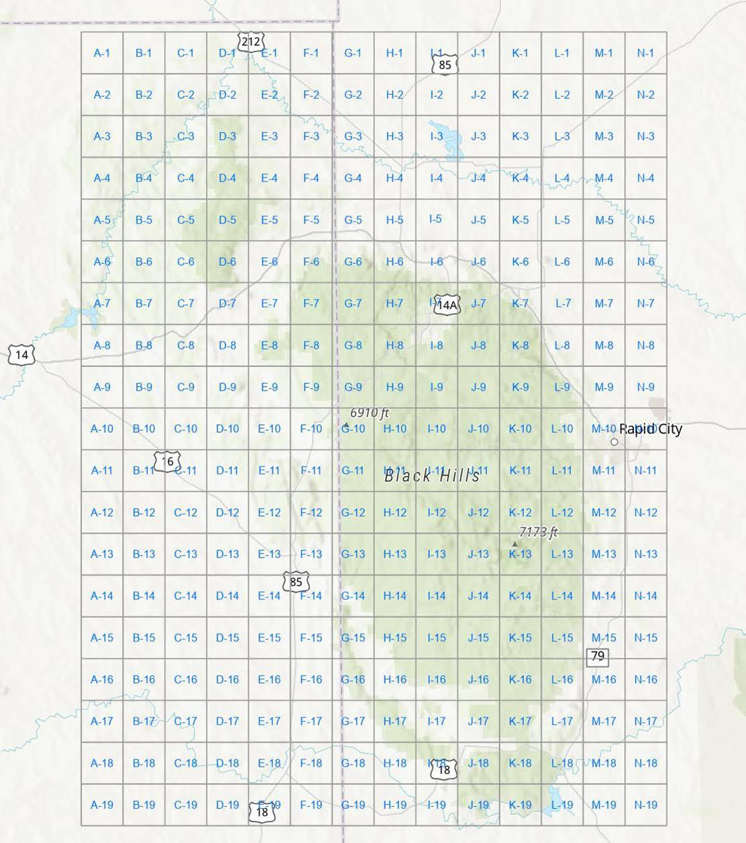
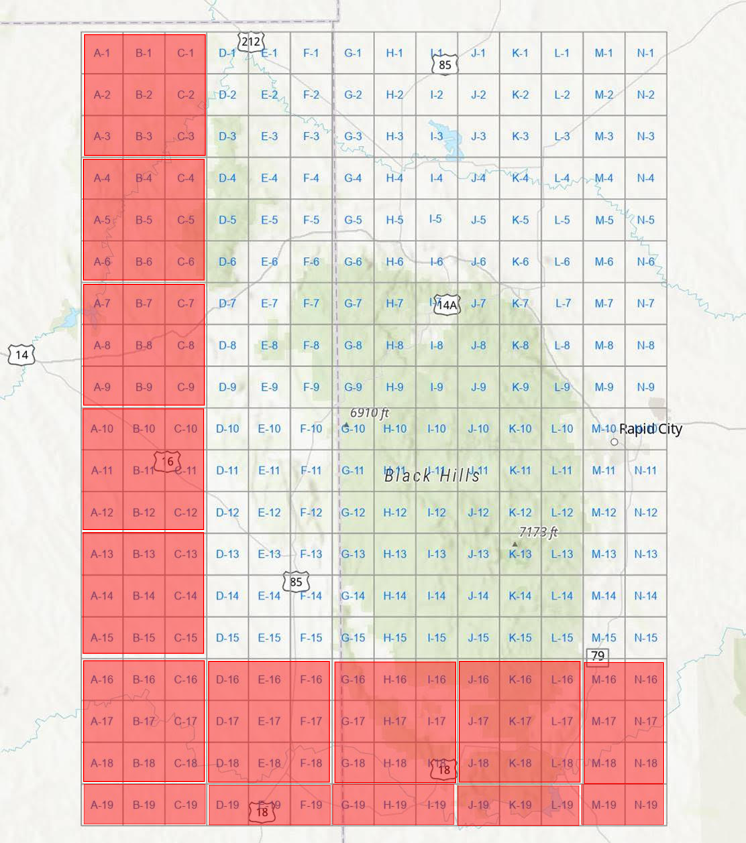
add supertile support

Changed region(s): [[0.0925, 0.0308, 0.8941, 0.987]]

diff --git a/get-elev.py b/get-elev.py
@@ -1,48 +1,62 @@
 # Author: Dustin Richards <richards.dustinb@gmail.com>
 # March 1, 2021
 # Extracts elevation data from a TIF file
-# I wrote this in four hours, don't @ me
 # version 1.1
 
-# assumes 8-bit gray .tif files (grayscale values 0-255)
+# assumes unsigned 16-bit gray .tif files
 
 # the simplest way to use this script is to drop it into a directory with a
 #   bunch of .tif files and double-click it
 
 # usage:
-# python3 get-elev.py [image1].tif [image2].tif [image3].tif ...
-# python3 get-elev.py *.tif (to get all .tif files in directory)
-# python3 get-elev.py (also gets all .tif files in directory)
+# python3 get-elev.py [directory with .tif files]
 
 from PIL import Image
 from glob import glob
 from time import localtime, strftime
+import subprocess
 import pandas as pd
-import numpy
+import numpy as np
 import math
 import sys
 import os
 
+# ==== THESE ARE USER DEFINED VARIABLES, EDIT THESE TO CUSTOMIZE THE OUTPUT ====
+
+# csv file that contains the file names of all the tiles in the grid
+#  elements separated by commas, rows separated by newlines
+#  your favorite spreadsheet software should be able to generate this with the help of some functions
+gridCSVFile = "./grid.csv" 
+# how many tiles wide a supertile should be
+supertileWidth = 3
+# how many tiles tall a supertile should be
+supertileHeight = 3
+# how many units to leave on the bottom of a supertile, supertiles will be offset down so that this
+#  is the minimum value
+#  the .scad uses 0.1mm output per 3m input, so for a 3mm base, use 90 here
+supertileBaseHeight = 15 # 0.5 mm base
+
+# ==== END OF USER DEFINED VARIABLES ====
+
 print("Running...")
 
-# get a list of files
-#if len(sys.argv) == 1: # if there isn't an argument
-#    files = glob("*.tif") # get all the .tif files in the current directory
-#
-#elif sys.argv[1].find("*") != -1: # if the argument has a wildcard
-#    files = glob(sys.argv[1]) # expand the wilcard
-#
-#elif len(sys.argv) > 1: # if there's a list of files
-#    files = sys.argv[1:len(sys.argv)].copy() # use the list of files
+# import the csv containing the files that form the terrain map grid
+gridChipsShort = np.genfromtxt(gridCSVFile, delimiter=',', dtype=str)
+gridWidth =  gridChipsShort.shape[1]
+gridHeight = gridChipsShort.shape[0]
+
+# setup for supertile formation
+gridChips = [[0 for i in range(gridWidth)] for j in range(gridHeight)]
+supertileGridWidth = math.ceil(gridWidth / supertileWidth)
+supertileGridHeight = math.ceil(gridHeight / supertileHeight)
+supertileFiles = [[0 for x in range(supertileGridWidth)] for y in range(supertileGridHeight)]
+tileWidth = 0
+tileHeight = 0
 
 if len(sys.argv) == 1: # if there isn't an argument
     direc = "./"
-    print("this dir")
 elif len(sys.argv) == 2: # if there is a single argument, should be a directory containing the images
     direc = sys.argv[1]
-    print("other dir")
-
-direc += "/*.tif"
 
 # save a reference to stdout
 orig_stdout = sys.stdout
@@ -63,14 +77,133 @@ timeNow = strftime("%Y-%m-%d_%H-%M-%S", localtime())
 resultsDirName = "results_" + timeNow
 os.mkdir(resultsDirName)
 
-print("How many tile columns wide is the data set?")
-areaWidth = int(input())
-print("How many tile rows tall is the data set?")
-areaHeight = int(input())
-areaTotal = areaWidth * areaHeight
-print("Expecting " + str(areaTotal) + " tiles, checking directory...")
-files = glob(direc)
-print("Found " + str(len(files)) + " files in directory!")
+# makes sure all files listed in gridCSVFile are present in direc
+print("Checking that files listed in " + gridCSVFile + " are in " + direc + "...")
+for i in range(len(gridChipsShort)):
+    for j in range(len(gridChipsShort[0])):
+        fpath = direc + "/" + gridChipsShort[i][j]
+        if not os.path.isfile(fpath):
+            print("Error: " + fpath + " not found, exiting.")
+            exit()
+        gridChips[i][j] = fpath
+
+# load a single tile and get its dimensions to use later
+tif = Image.open(gridChips[0][0])
+tileWidth = tif.width
+tileHeight = tif.height
+
+# divide up the tiles into groups of supertiles
+i = 0
+j = 0
+supertile_i = 0
+supertile_j = 0
+tempSuperHeight = 0
+tempSuperWidth = 0
+tempSupertile = []
+tempSupertileRow = []
+
+while i < gridHeight:
+    # form all supertiles possible in a row
+    while j < gridWidth:
+        # form a single supertile
+        # pull up to supertileHeight rows of supertileWidth length
+        while i + tempSuperHeight < gridHeight and tempSuperHeight < supertileHeight:
+            
+            # pull up to supertileWidth tiles from the row
+            while j + tempSuperWidth < gridWidth and tempSuperWidth < supertileWidth:
+                #tempSupertile[tempSuperHeight][tempSuperWidth] = gridChips[i+tempSuperHeight][j+tempSuperWidth]
+                tempSupertileRow.append(gridChips[i+tempSuperHeight][j+tempSuperWidth])
+                tempSuperWidth += 1
+        
+            tempSupertile.append(tempSupertileRow.copy())
+            tempSupertileRow.clear()
+
+            tempSuperHeight += 1
+            tempSuperWidth = 0
+
+        # increment j by the width of a supertile
+        j += supertileWidth
+
+        # save the supertile we just formed
+        supertileFiles[supertile_i][supertile_j] = tempSupertile.copy()
+        supertile_j += 1
+
+        # clear out the temp supertile
+        #for k in range(0, supertileHeight):
+        #    tempSupertile[k] = [0]*supertileWidth
+        tempSupertile.clear()
+        tempSuperHeight = 0
+
+    # increment i by the height of a supertile
+    i += supertileHeight
+    supertile_i += 1
+    supertile_j = 0
+    j = 0
+
+# form the supertile arrays
+for supertileFileRow in supertileFiles:
+    for supertile in supertileFileRow:
+        # filename for the output, extract just the name of the top-left tile sans path and extension
+        supertileName = supertile[0][0].split('/')
+        supertileName = supertileName[len(supertileName)-1].split('.')[0]
+        print("\nProcessing supertile " + supertileName)
+        # array of arrays, one for each tile in the supertile, data values
+        tempTileVals = [[0 for i in range(tileWidth)] for j in range(tileHeight)]
+
+        # load the data from each tile into its respective array element
+        for i in range(len(supertile)):
+            for j in range(len(supertile[0])):
+                # read image
+                print(supertile[i][j])
+                tif = Image.open(supertile[i][j])
+                # convert to a 2d numpy array
+                tempTileVals[i][j] = np.array(tif)
+
+        # tempSupertileVals holds all the values for a single supertile in a single 2d array
+        supertileTilesX = j+1 # width of the supertile in tiles
+        supertileTilesY = i+1 # height of the supertile in tiles
+        supertileWidthPx = supertileTilesX * tileWidth
+        supertileHeightPx = supertileTilesY * tileHeight
+        tempSupertileVals = [[0 for i in range(supertileWidthPx)] for j in range(supertileHeightPx)]
+
+        # we'll keep track of the minimum value in each supertile in order to remove excess plastic on the bottom of it
+        min = 999999999
+
+        # extract the data from the individual tile arrays and form a supertile
+        for i in range(len(tempSupertileVals)):
+            row = math.floor(i / tileHeight)
+            for j in range(len(tempSupertileVals[0])):
+                col = math.floor(j / tileWidth)
+                tileRow = i % tileHeight
+                tileCol = j % tileWidth
+                tempSupertileVals[i][j] = tempTileVals[row][col][tileRow][tileCol]
+                # track the minimum value in the supertile
+                if tempSupertileVals[i][j] < min:
+                    min = tempSupertileVals[i][j]
+
+        offset = min - supertileBaseHeight
+        for i in range(len(tempSupertileVals)):
+            for j in range(len(tempSupertileVals[0])):
+                tempSupertileVals[i][j] -= offset
+    
+        # save the supertile .dat
+        supertileBaseName = resultsDirName + "/supertile_" + supertileName
+        np.savetxt(supertileBaseName + ".dat", tempSupertileVals, fmt="%1u")
+
+        # run OpenSCAD to generate an stl
+        print("Generating 3D model for supertile...")
+        outfileArg = supertileBaseName + ".stl"
+        supertileXArg = "supertile_x=" + str(supertileTilesX)
+        supertileYArg = "supertile_y=" + str(supertileTilesY)
+        infileArg     = "infile=\"" + supertileBaseName + ".dat\""
+        subprocess.run(["openscad-nightly", 
+            "-o", outfileArg,
+            "-D", supertileXArg,
+            "-D", supertileYArg,
+            "-D", infileArg,
+            "dat2stl.scad"])
+        print("Done!")
+
 exit()
 
 for fileNum in range(0, len(files)):
@@ -90,9 +223,9 @@ for fileNum in range(0, len(files)):
     width = tif.width
     height = tif.height
     # convert to a 2d numpy array
-    elevarr = numpy.array(tif)
+    elevarr = np.array(tif)
     # create an empty array for the output to OpenSCAD
-    scadarr = numpy.array([[0] * width] * height)
+    scadarr = np.array([[0] * width] * height)
 
     # switch to the results directory
     os.chdir(resultsDirName)
@@ -109,7 +242,7 @@ for fileNum in range(0, len(files)):
     os.chdir(filename_noext)
 
     # output a csv with the raw elevation data
-    numpy.savetxt(filename_noext + ".csv", elevarr, delimiter=",", fmt="%1u")
+    np.savetxt(filename_noext + ".csv", elevarr, delimiter=",", fmt="%1u")
 
     # make a copy of the data with everything shifted down by (750 - 90) meters
     #   750 = lowest value in range
@@ -119,7 +252,7 @@ for fileNum in range(0, len(files)):
             scadarr[i][j] = elevarr[i][j] - (750 - 90)
 
     # output the shifted down data for OpenSCAD to use
-    numpy.savetxt(filename_noext + ".dat", scadarr, fmt="%1u")
+    np.savetxt(filename_noext + ".dat", scadarr, fmt="%1u")
 
     # get the elevations of the corners
     topleft = elevarr[0][0]
@@ -128,8 +261,8 @@ for fileNum in range(0, len(files)):
     bottomright = elevarr[height-1][width-1]
 
     # get the min and max elevation
-    maximum = numpy.amax(elevarr)
-    minimum = numpy.amin(elevarr)
+    maximum = np.amax(elevarr)
+    minimum = np.amin(elevarr)
 
     # store to the storage arrays
     names.append(filename_noext)
@@ -166,6 +299,6 @@ stats = {"minimums": minimums,
          "bottomrights": bottomrights}
 
 df = pd.DataFrame(stats, index=names)
-df.to_csv("get-elev_all_stats_" + timeNow + ".csv")
+df.to_csv("all_stats_" + timeNow + ".csv")
 
 print("Done!")
